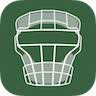
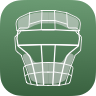
Prepare for Keep the Count release

diff --git a/_sass/akimbo.scss b/_sass/akimbo.scss
@@ -210,5 +210,5 @@ Intro
 
 .appicon-1401051569 {
   background-image: url(app-icons/appicon-1401051569.png);
-  background-image: -webkit-image-set(url(app-icons/appicon-1401051569.png) 1x, url(app-icons/appicon-1401051569@2x.png) 2x);
+  background-image: -webkit-image-set(url(app-icons/appicon-1401051569.png) 1x, url(app-icons/appicon-1401051569@2x.png) 2x, url(app-icons/appicon-1401051569@3x.png) 3x);
 }

diff --git a/_layouts/post.html b/_layouts/post.html
@@ -18,10 +18,6 @@ layout: default
   <div class="post-content e-content" itemprop="articleBody">
     {{ content }}
   </div>
-
-  {%- if site.disqus.shortname -%}
-    {%- include disqus_comments.html -%}
-  {%- endif -%}
-
+  
   <a class="u-url" href="{{ page.url | relative_url }}" hidden></a>
 </article>

diff --git a/app_pages/keepcount.md b/app_pages/keepcount.md
@@ -2,19 +2,21 @@
 layout: app-page
 title: Keep the Count
 permalink: /apps/keepcount
-x-appid: 1401051569
+appid: 1401051569
 ---
 You're at a baseball or softball game (or even kickball), watching your kid totally dominate the other team,
 but all the parents are continually asking each other "what's the score?", "what's the count?" because these
-youth games almost never have a scoreboard available.  I know, I've been there.
+youth games almost never have a scoreboard available.  We've been there.
 
 What you need is _Keep the Count_.  A fancier version of the batter count tracker in the umpire's hand, _Keep the Count_
 will allow you to easily track the current count and current score.  Track as much or as little as you like. _Keep the Count_
 doesn't force you to use it any particular way.
 
-<img src="{{ '/assets/screens/keepcount0.png' | relative_url }}" class="screenshot"/>
 <img src="{{ '/assets/screens/keepcount1.png' | relative_url }}" class="screenshot"/>
+<img src="{{ '/assets/screens/keepcount0.png' | relative_url }}" class="screenshot"/>
+<img src="{{ '/assets/screens/keepcount2.png' | relative_url }}" class="screenshot"/>
 
-Show your team spirit by customizing your scoreboard to your team color.
+Show your team spirit by customizing your scoreboard to your team color, and choose your preferred app icon and color
+for your iPhone home screen.
 
-_Keep the Count_ is coming soon, only on the iPhone App Store.
+_Keep the Count_ is available only on the iPhone App Store.

diff --git a/_drafts/2018-09-15-keep-the-count-now-available.md b/_drafts/2018-09-15-keep-the-count-now-available.md
@@ -1,0 +1,30 @@
+---
+layout: post
+title: Keep the Count is now Available
+---
+<img srcset="
+  /assets/app-icons/appicon-1401051569.png 1x,
+  /assets/app-icons/appicon-1401051569@2x.png 2x,
+  /assets/app-icons/appicon-1401051569@3x.png 3x
+" src="/assets/app-icons/appicon-1401051569.png"
+width="96" height="96" border="0" style="float: right; padding: 20px;"/>
+We're pleased to announce that [Keep the Count] is now available in the iPhone App Store.
+
+_Keep the Count_ is for those weekend games when the electronic scoreboard for your
+youth softball or baseball (or even kickball!) games isn't working, and everyone
+in the stands is asking "what's the score again?", "what's the count?"
+
+<img src="{{ '/assets/screens/keepcount1.png' | relative_url }}" class="screenshot"/>
+<img src="{{ '/assets/screens/keepcount0.png' | relative_url }}" class="screenshot"/>
+<img src="{{ '/assets/screens/keepcount2.png' | relative_url }}" class="screenshot"/>
+
+Now you can keep track with ease.  And, with the customization features, you can
+show your team spirit by choosing your team's color, and selecting an app launch
+icon that matches for your iPhone home screen.
+
+See the [app's page][Keep the Count] for more information, and visit the
+[App Store] to wrap your thumbs around our latest app!
+
+[BigSprocket]: https://bigsprocket.com
+[Keep the Count]: /apps/keepcount
+[App Store]: https://itunes.apple.com/in/developer/fingers-akimbo-llc/id1148409568

diff --git a/privacy.md b/privacy.md
@@ -1,0 +1,27 @@
+---
+layout: post
+title: Privacy Policy
+---
+Fingers Akimbo cares about your privacy.  We care so much, that we don't even
+collect any private data from you.  While we do analytics to better understand
+what features of our applications are being used, and how, it is all entirely
+anonymous, and _we never ask you for, or collect in any other way,
+personally identifying information_.
+
+[Keep the Count] and [HR Points][points] both use Microsoft [AppCenter] for analytics
+and crash logging. No personally identifiable information is ever sent with
+either of these reports.
+
+[Fingersakimbo.com][fa] uses [Google Analytics] to determine website traffic. Fingers
+Akimbo does not collect any identifiable information on the website, so _we cannot
+and do not send any to Google in this process_.  That said, Google may have
+collected information about you on other sites.  If this is a concern for you,
+you should visit Google's [Privacy area] to see how to manage this data.
+
+
+[Keep the Count]: /apps/keepcount
+[points]: /apps/points
+[Privacy area]: https://policies.google.com/privacy
+[AppCenter]: https://appcenter.ms
+[fa]: /
+[Google Analytics]: https://marketingplatform.google.com/about/analytics/

diff --git a/apps.md b/apps.md
@@ -15,13 +15,14 @@ permalink: /apps/
   <div class="applist-col applist-col-2">
     <a href="/apps/keepcount"><img srcset="
       /assets/app-icons/appicon-1401051569.png 1x,
-      /assets/app-icons/appicon-1401051569@2x.png 2x
+      /assets/app-icons/appicon-1401051569@2x.png 2x,
+      /assets/app-icons/appicon-1401051569@3x.png 3x
     " src="/assets/app-icons/appicon-1401051569.png"
     width="96" height="96" border="0"/><br />Keep the Count</a>
     <p /><p>Keep the count and score at youth baseball and softball games</p>
     <p /><p style="color:red">(Coming Soon)</p>
   </div>
-  
+
   {% comment %}
       <div class="applist-col applist-col-3">
       <a href="/apps/when"><img srcset="

diff --git a/_posts/2017-03-13-points-now-available.md b/_posts/2017-03-13-points-now-available.md
@@ -2,6 +2,11 @@
 layout: post
 title: Points is now Available
 ---
+<img srcset="
+  /assets/app-icons/appicon-1208361501.png 1x,
+  /assets/app-icons/appicon-1208361501@2x.png 2x
+" src="/assets/app-icons/appicon-1208361501.png"
+width="96" height="96" border="0" style="float: right; padding: 20px;"/>
 We're pleased to announce that [Points] is now available in the iPhone App Store.
 
 Like the original version from [BigSprocket], [Points] allows you to keep track of your points and absences, if your company's HR department uses

diff --git a/index.md b/index.md
@@ -25,7 +25,8 @@ Here's some stuff to wrap your thumbs around. Only on iPhone.
 <a href="/apps/keepcount">
   <img srcset="
     /assets/app-icons/appicon-1401051569.png 1x,
-    /assets/app-icons/appicon-1401051569@2x.png 2x
+    /assets/app-icons/appicon-1401051569@2x.png 2x,
+    /assets/app-icons/appicon-1401051569@3x.png 3x
   " src="/assets/app-icons/appicon-1401051569.png"
   width="96" height="96" border="0"/>
 </a>
